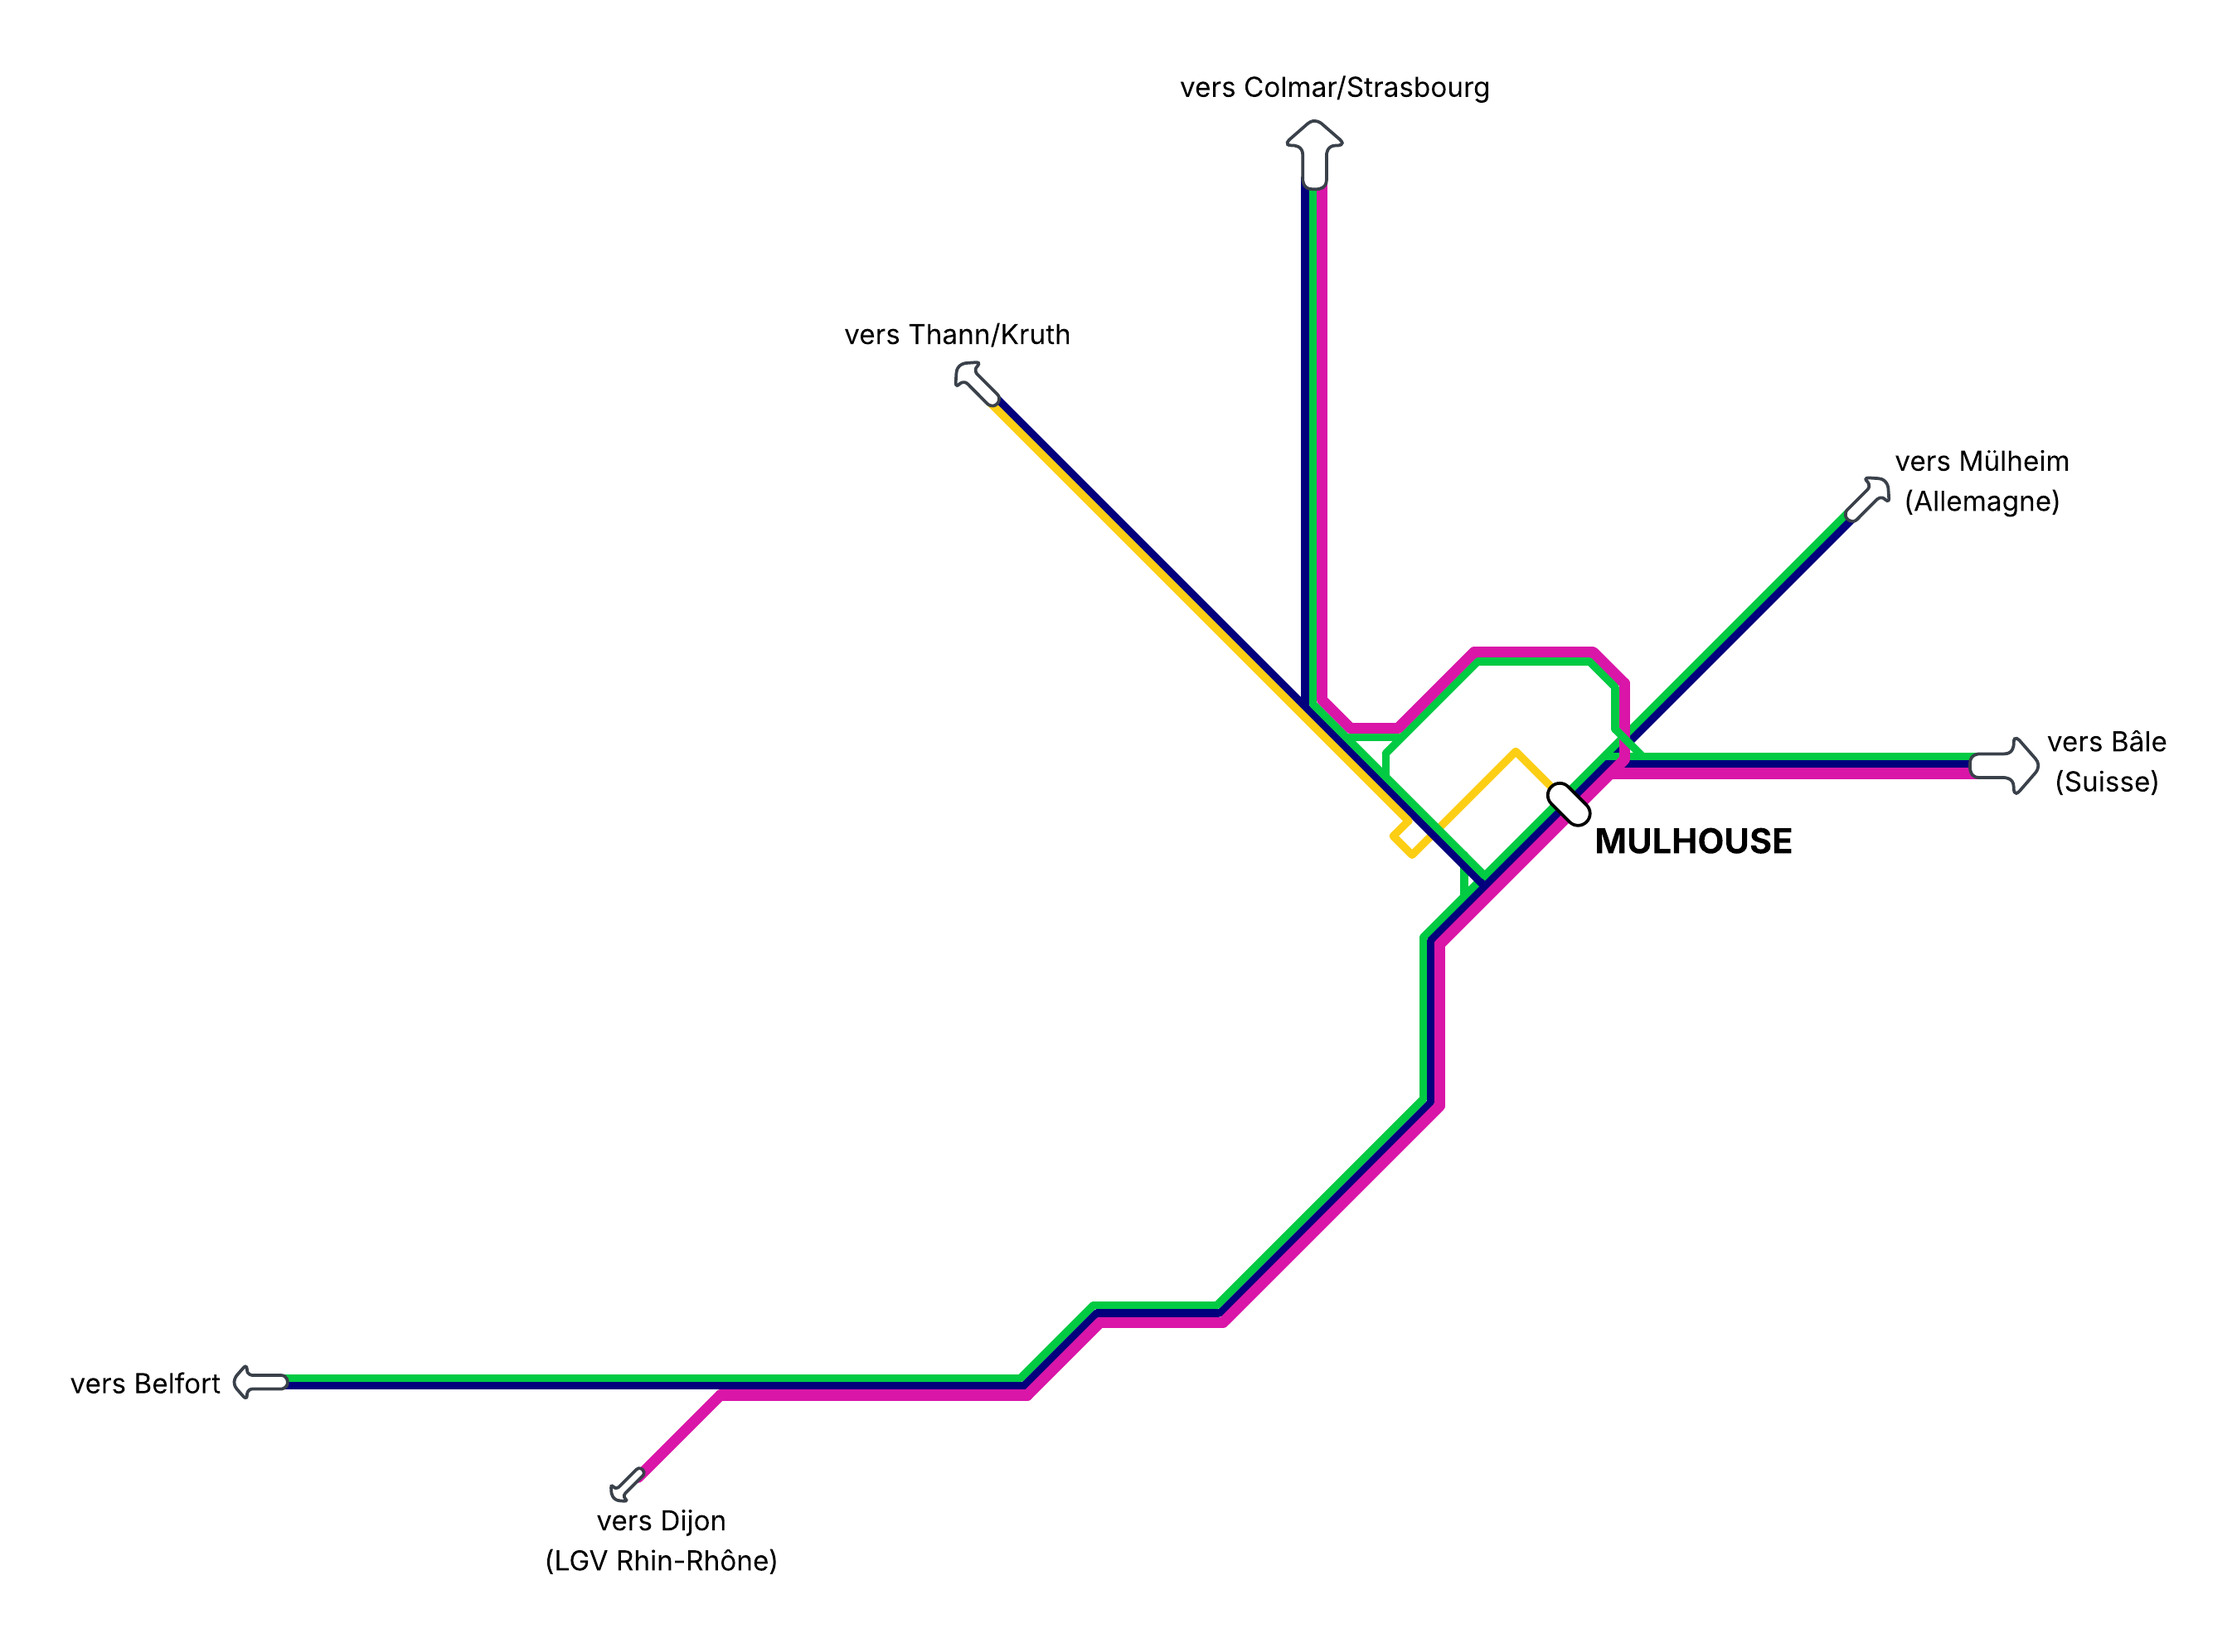
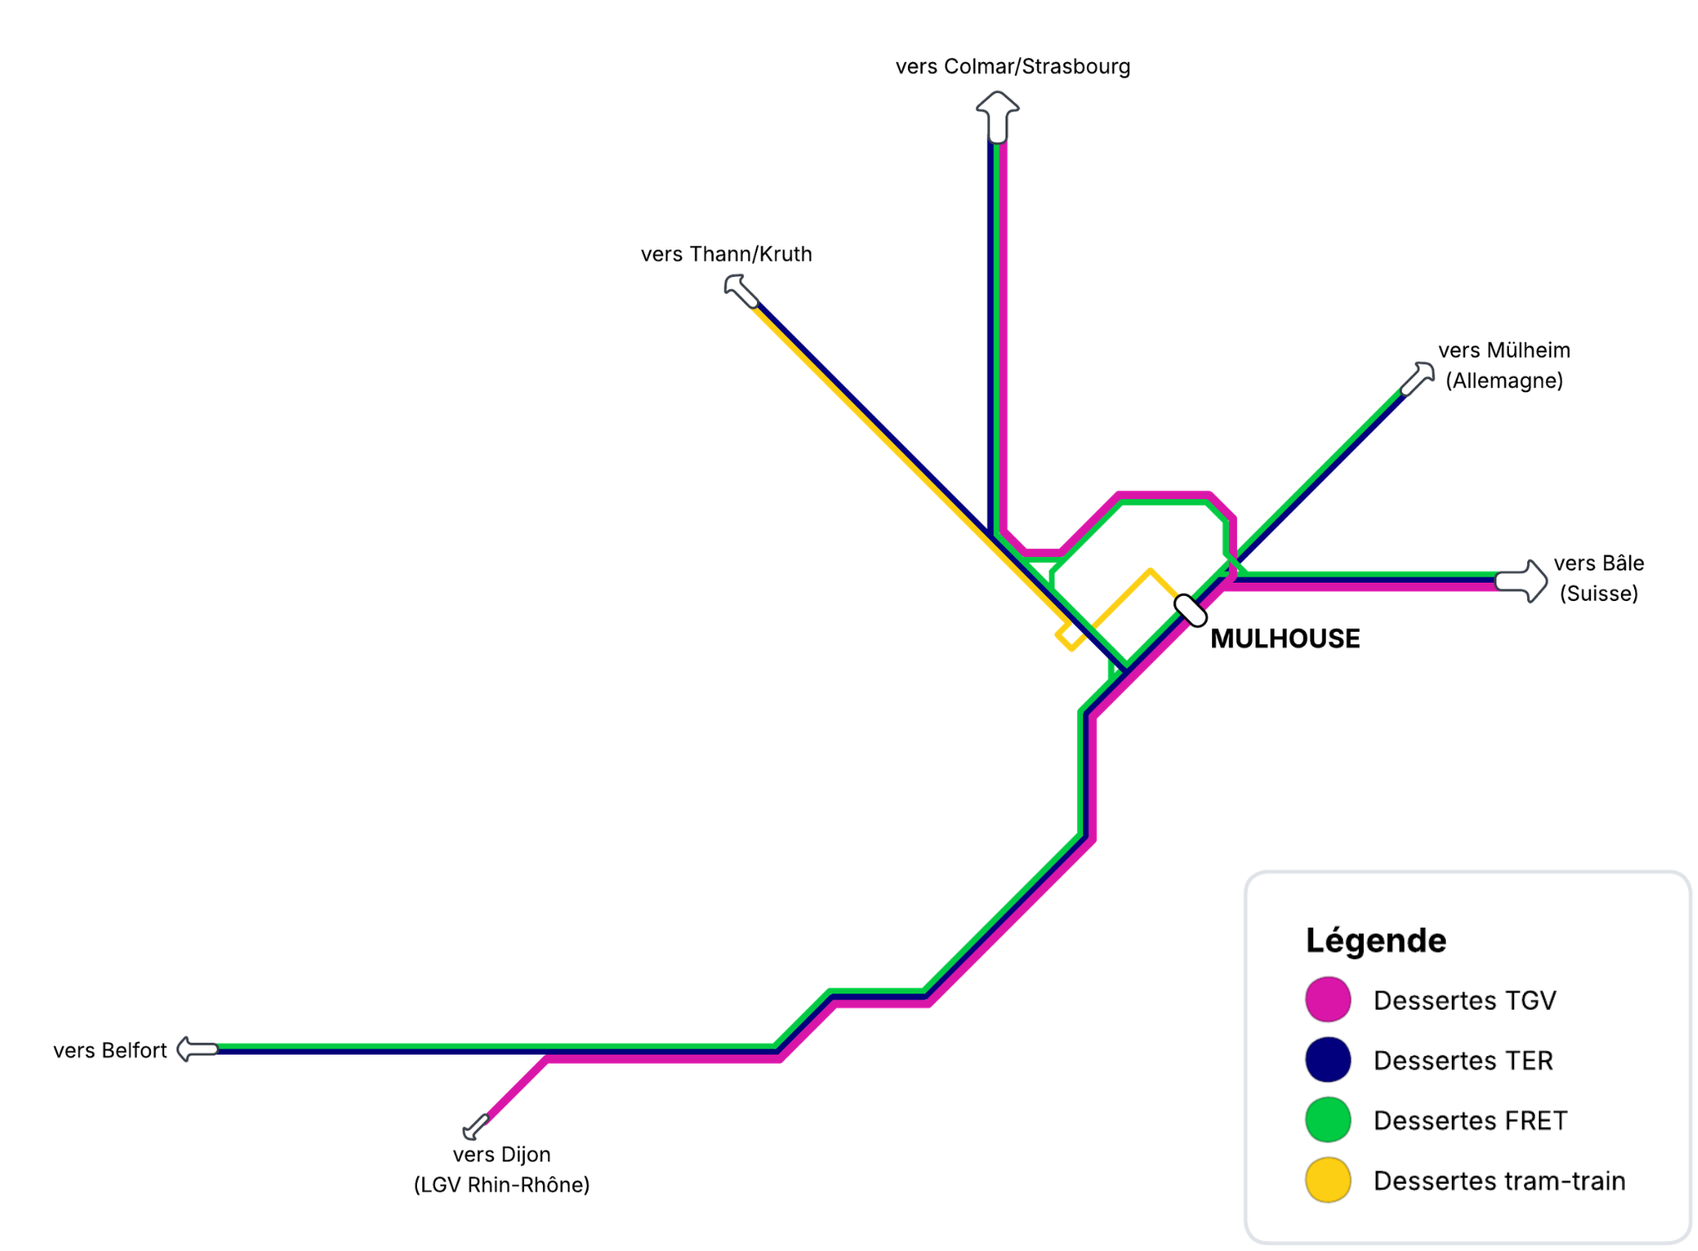
ajustement schemas dessertes

Changed region(s): [[0.75, 0.7475, 0.9688, 0.9655], [0.9688, 0.9655, 1.0, 0.9967], [0.875, 0.2803, 0.9062, 0.3115]]

diff --git a/index.html b/index.html
@@ -213,10 +213,6 @@
                     <img src="images/dessertes nouvelles.png" alt="Schéma des dessertes nouvelles avec la gare Mulhouse-Lutterbach TGV et la ligne Mulhouse-Guebwiller" loading="lazy" decoding="async">
                     <figcaption>Dessertes nouvelles avec la gare Mulhouse-Lutterbach TGV</figcaption>
                 </figure>
-                <figure class="exploitation-gallery-item legend-overlay">
-                    <img src="images/legende.png" alt="Légende des schémas de dessertes" loading="lazy" decoding="async">
-                    <figcaption>Légende</figcaption>
-                </figure>
             </div>
 
             <h3>Tram-train Mulhouse – Thann</h3>
